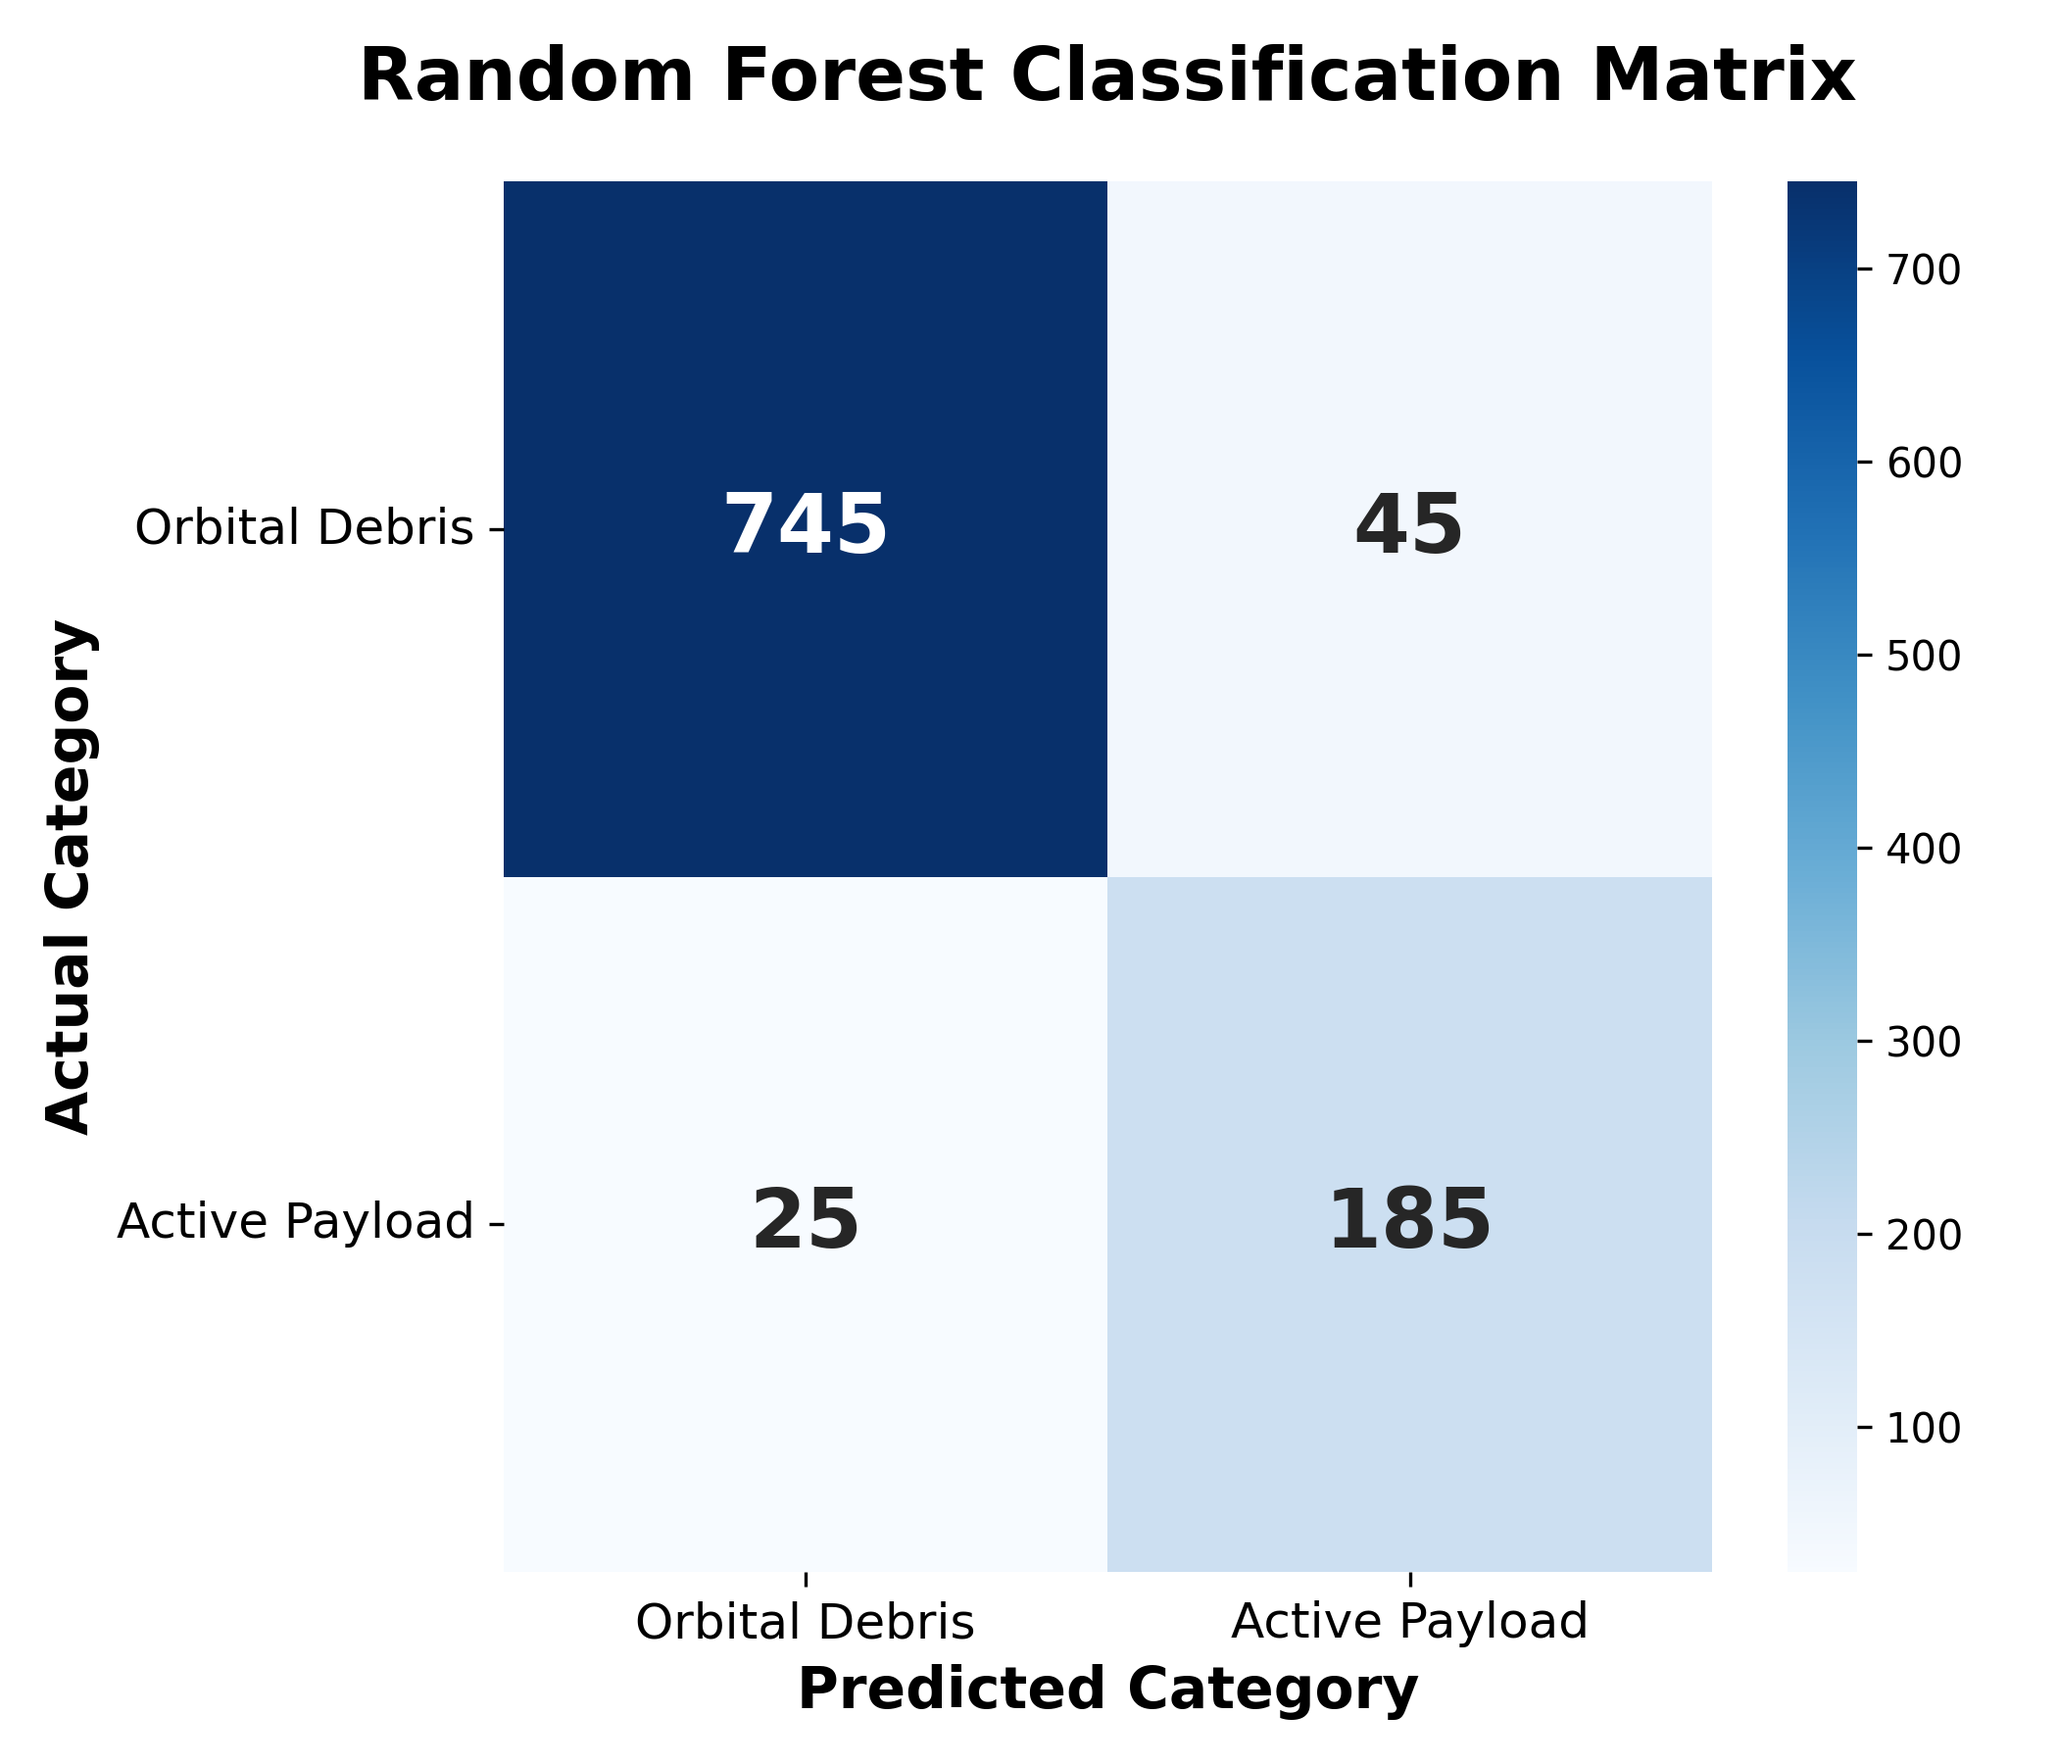
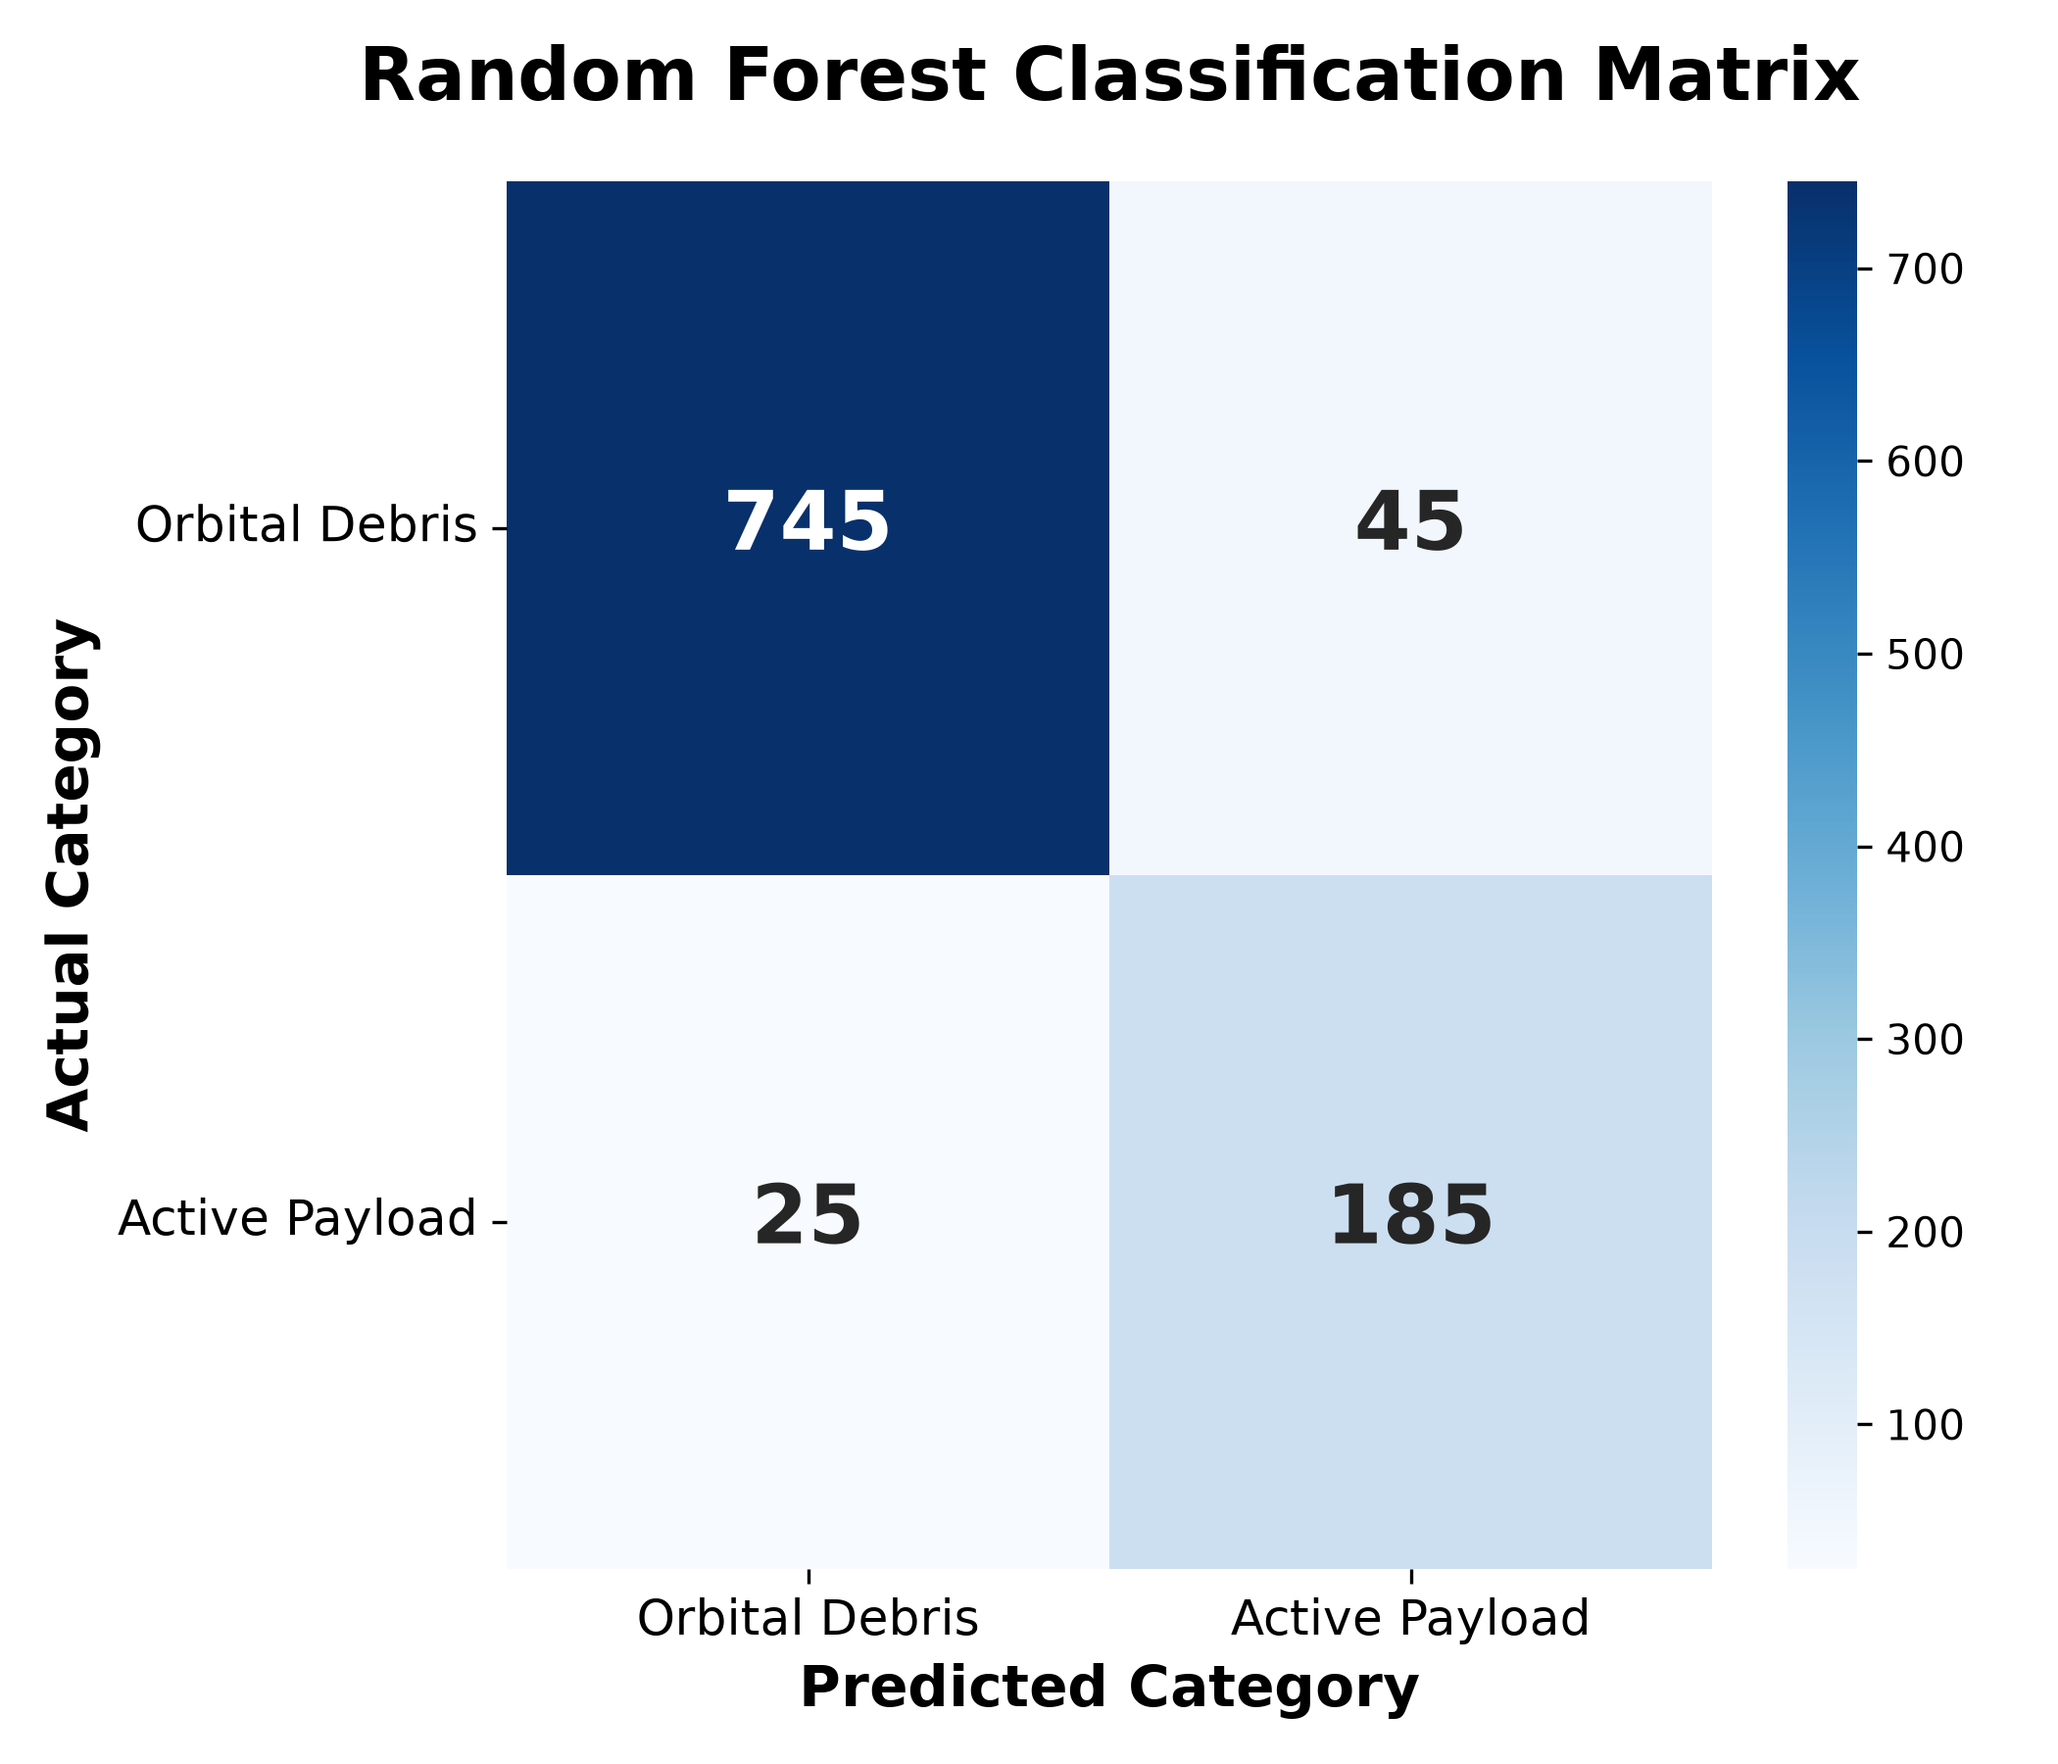
chore(scripts): make plot output path cwd-independent, fix seaborn deprecation

diff --git a/scripts/analysis/generate_ml_plots.py b/scripts/analysis/generate_ml_plots.py
@@ -1,11 +1,11 @@
-import os
+from pathlib import Path
 
 import matplotlib.pyplot as plt
 import numpy as np
 import seaborn as sns
 
-# Create output directory if it doesn't exist
-os.makedirs("output_graphs", exist_ok=True)
+OUTPUT_DIR = Path(__file__).resolve().parent / "output_graphs"
+OUTPUT_DIR.mkdir(parents=True, exist_ok=True)
 
 # Set high-resolution for poster printing
 plt.rcParams["figure.dpi"] = 300
@@ -43,8 +43,9 @@ def plot_confusion_matrix():
     plt.yticks(fontsize=12, rotation=0)
 
     plt.tight_layout()
-    plt.savefig("output_graphs/confusion_matrix.png")
-    print("Generated: output_graphs/confusion_matrix.png")
+    out_path = OUTPUT_DIR / "confusion_matrix.png"
+    plt.savefig(out_path)
+    print(f"Generated: {out_path}")
     plt.close()
 
 
@@ -65,7 +66,7 @@ def plot_feature_importance():
     importance = [0.42, 0.28, 0.16, 0.09, 0.05]
 
     # Create horizontal bar chart
-    sns.barplot(x=importance, y=features, palette="viridis")
+    sns.barplot(x=importance, y=features, hue=features, palette="viridis", legend=False)
 
     plt.title(
         "ML Feature Importance (Random Forest)", fontsize=18, pad=15, weight="bold"
@@ -94,8 +95,9 @@ def plot_feature_importance():
 
     plt.tight_layout()
     plt.xlim(0, 0.5)
-    plt.savefig("output_graphs/feature_importance.png")
-    print("Generated: output_graphs/feature_importance.png")
+    out_path = OUTPUT_DIR / "feature_importance.png"
+    plt.savefig(out_path)
+    print(f"Generated: {out_path}")
     plt.close()
 
 
@@ -103,4 +105,4 @@ if __name__ == "__main__":
     print("Generating Academic Data Visualizations...")
     plot_confusion_matrix()
     plot_feature_importance()
-    print("Done! Check the 'output_graphs' folder.")
+    print(f"Done! Check the '{OUTPUT_DIR}' folder.")
